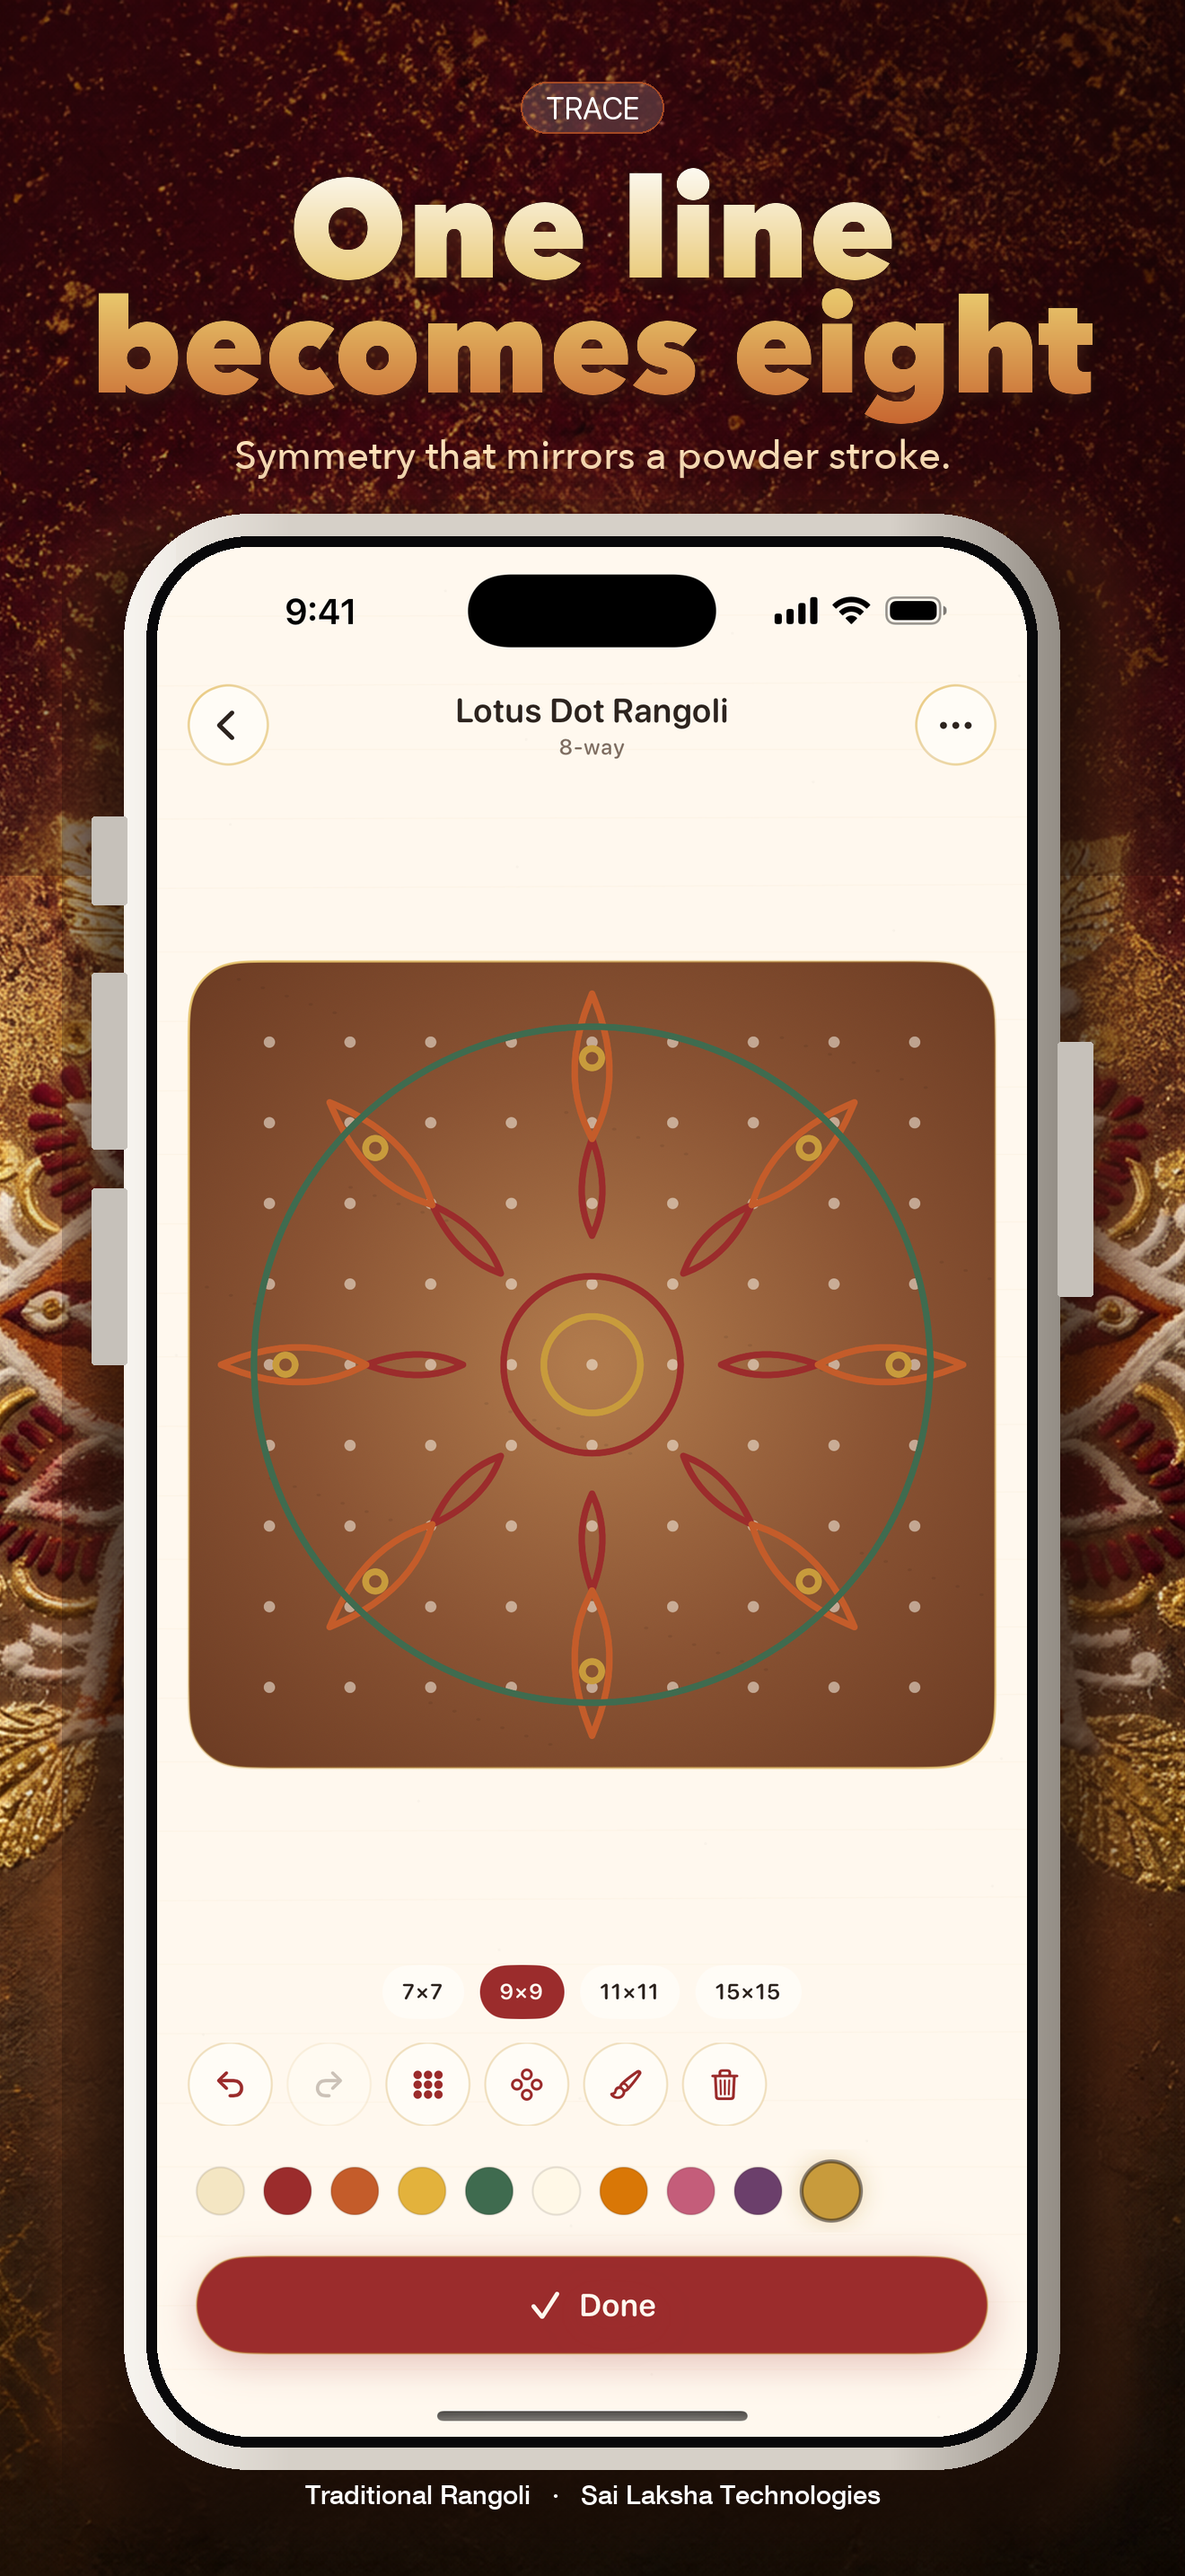
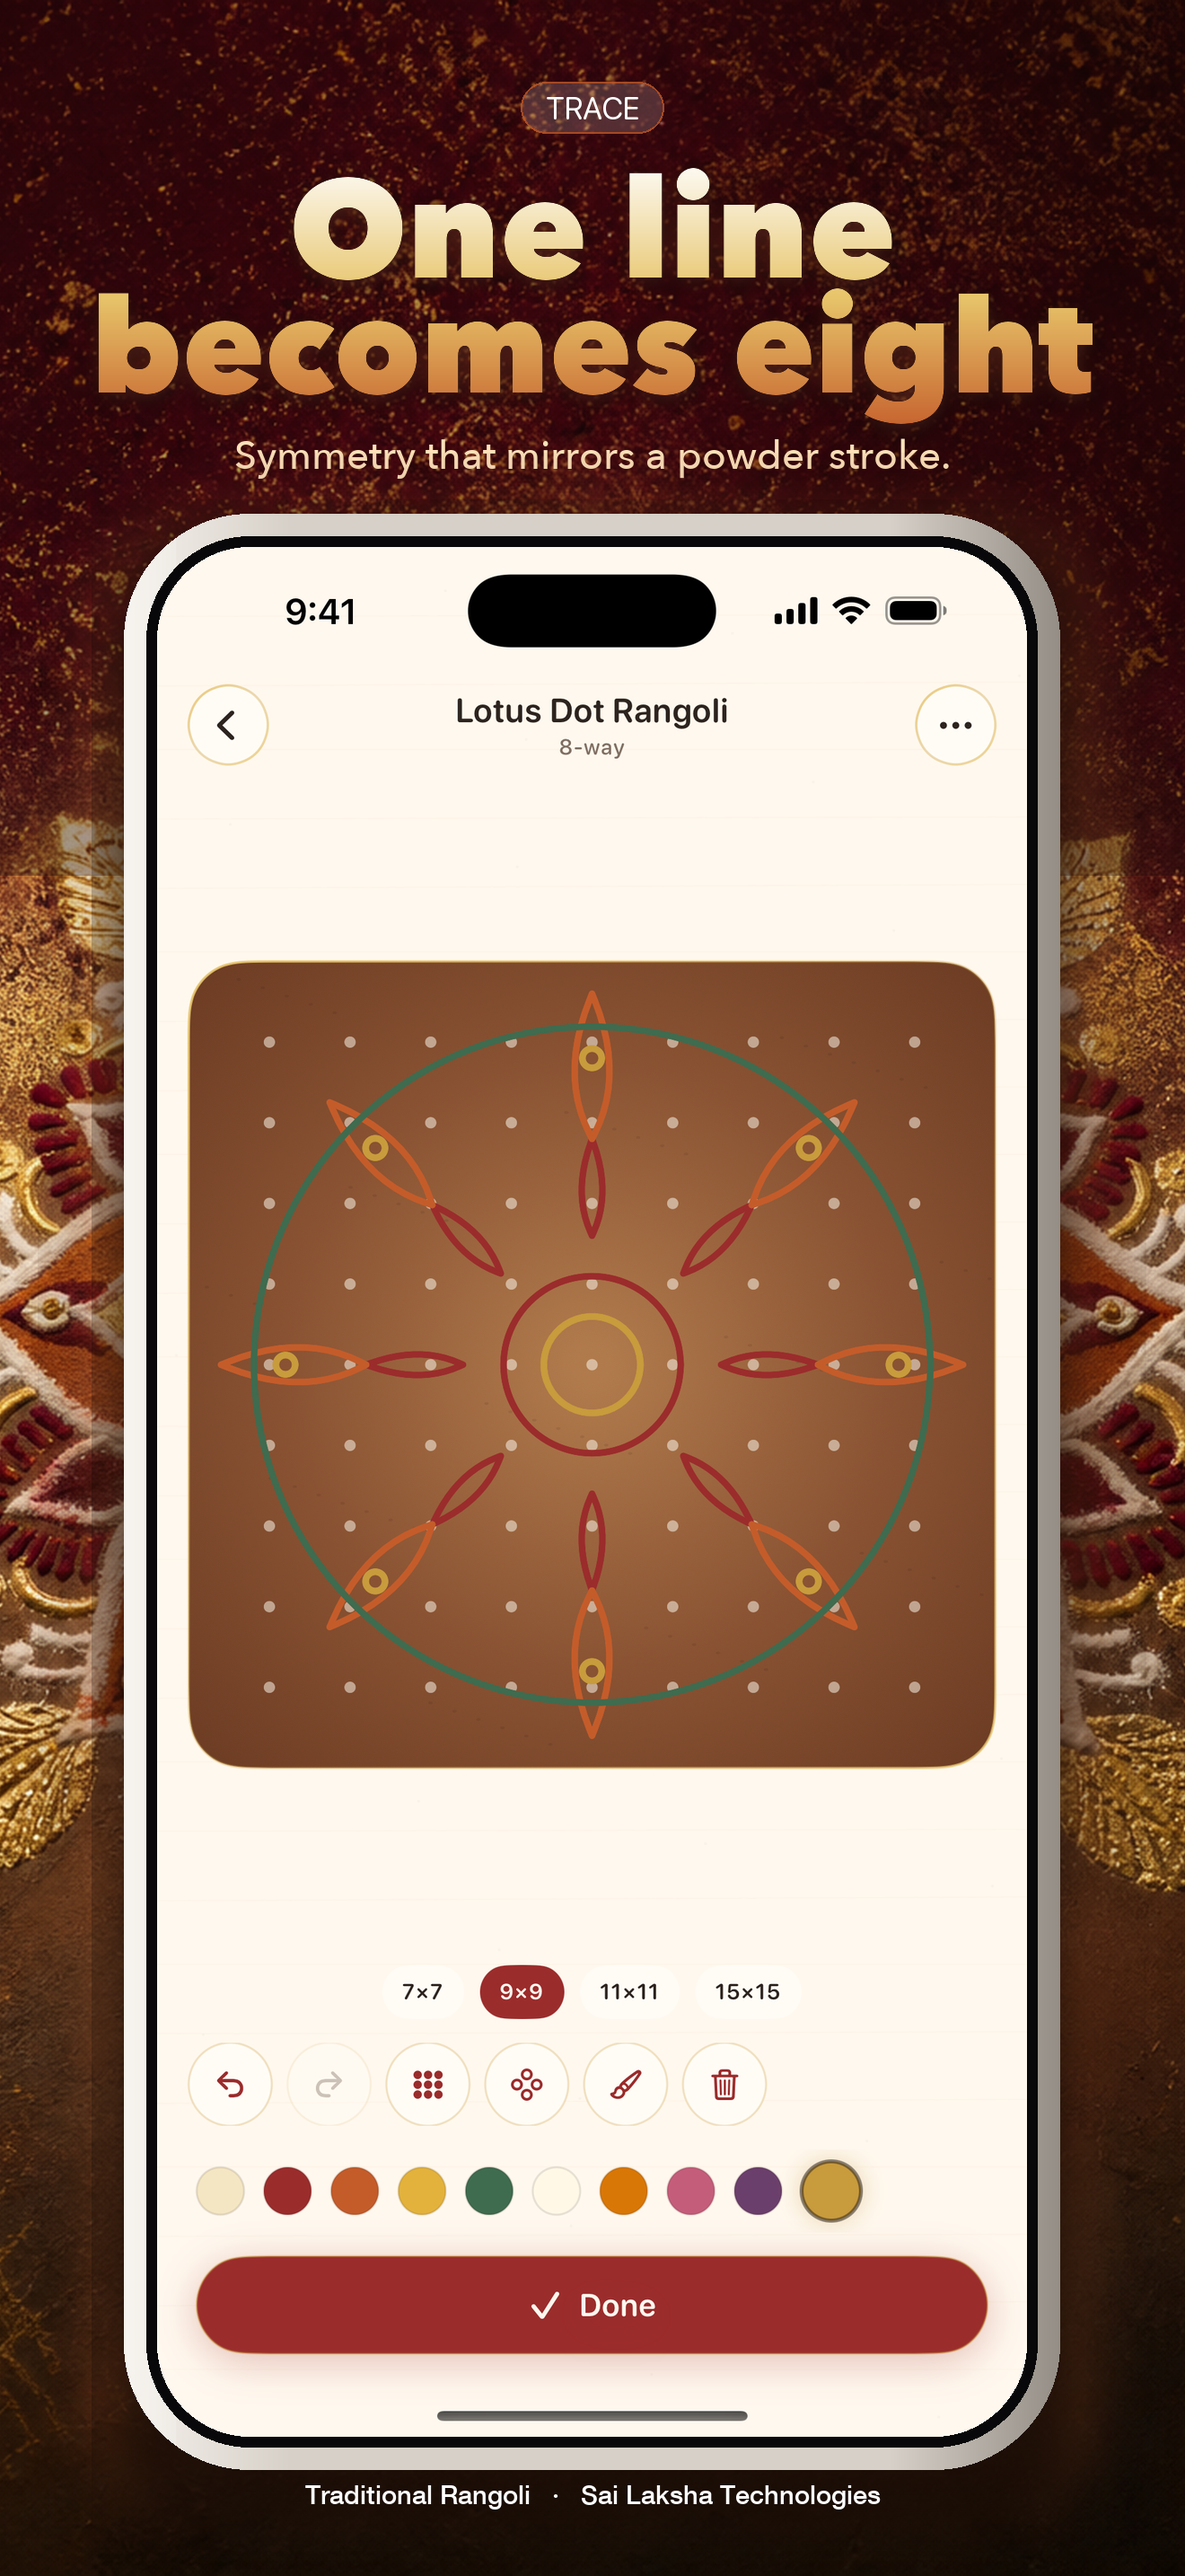
Drop the fake iPhone side buttons from App Store posters so the titanium frame stays clean.

Changed region(s): [[0.0311, 0.2483, 0.1242, 0.8068], [0.8697, 0.3103, 0.9629, 0.7448]]

diff --git a/AppStore/Screenshots/compose_posters.py b/AppStore/Screenshots/compose_posters.py
@@ -202,8 +202,7 @@ def iphone_pro(screen: Image.Image) -> Image.Image:
     lip = max(4, sw // 80)
     rim = metal + lip
     fw, fh = sw + 2 * rim, sh + 2 * rim
-    btn = max(7, rim + 2)
-    pad_x, pad_t, pad_b = btn + 10, 8, 40
+    pad_x, pad_t, pad_b = 16, 8, 40
     canvas = Image.new("RGBA", (fw + pad_x * 2, fh + pad_t + pad_b), (0, 0, 0, 0))
     ox, oy = pad_x, pad_t
     outer_r = int(sw * 0.145)
@@ -213,13 +212,6 @@ def iphone_pro(screen: Image.Image) -> Image.Image:
     inner = rounded(Image.new("RGBA", (fw - metal * 2, fh - metal * 2), (8, 8, 10, 255)), max(12, outer_r - metal))
     canvas.alpha_composite(inner, (ox + metal, oy + metal))
     canvas.alpha_composite(rounded(screen.convert("RGB"), screen_r), (ox + rim, oy + rim))
-
-    d = ImageDraw.Draw(canvas)
-    metal_fill = (198, 193, 186)
-    d.rounded_rectangle((ox - btn + 3, oy + int(fh * 0.155), ox + 3, oy + int(fh * 0.20)), 3, fill=metal_fill)
-    d.rounded_rectangle((ox - btn + 3, oy + int(fh * 0.235), ox + 3, oy + int(fh * 0.325)), 3, fill=metal_fill)
-    d.rounded_rectangle((ox - btn + 3, oy + int(fh * 0.345), ox + 3, oy + int(fh * 0.435)), 3, fill=metal_fill)
-    d.rounded_rectangle((ox + fw - 3, oy + int(fh * 0.27), ox + fw + btn - 3, oy + int(fh * 0.40)), 3, fill=metal_fill)
     return canvas
 
 
